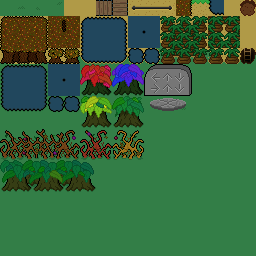
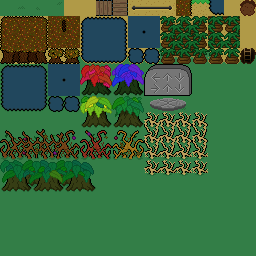
swamp maze

Changed region(s): [[0.5625, 0.4375, 0.8125, 0.6875]]

diff --git a/src/tool/editor/www/js/image/ImageService.js b/src/tool/editor/www/js/image/ImageService.js
@@ -42,7 +42,7 @@ ImageService.PRESETS = [{
   w: 4,
   h: 4,
   neighbors: [
-    0xa0, 0x1a, 0x12, 0x02,
+    0x0a, 0x1a, 0x12, 0x02,
     0x4a, 0x5a, 0x52, 0x42,
     0x48, 0x58, 0x50, 0x40,
     0x08, 0x18, 0x10, 0x00,

diff --git a/src/app/fmn_map_callbacks.c b/src/app/fmn_map_callbacks.c
@@ -2,6 +2,10 @@
 #include "app/sprite/fmn_sprite.h"
 #include "app/hero/fmn_hero.h"
 
+/* Pumpkin in the NW corner, find the topmost pushblock and kill it.
+ * This is no longer needed; we now take a more aggressive approach re pumpkin control.
+ */
+
 static int _find_top_pushblock(struct fmn_sprite *sprite,void *userdata) {
   struct fmn_sprite **found=userdata;
   if (sprite->controller!=FMN_SPRCTL_pushblock) return 0;
@@ -22,6 +26,65 @@ void fmn_map_callback_kill_top_pushblock_if_pumpkin_at_nw(uint8_t param,void *us
   fmn_sprite_kill(pushblock);
 }
 
+/* Generic, set a gsbit on map events.
+ */
+
 void fmn_map_callback_set_gsbit_00xx(uint8_t param,void *userdata) {
   fmn_gs_set_bit(0x0000|param,1);
+}
+
+/* Prepare the next step of the swamp maze.
+ * Start, end, and intermediate maps should all trigger this event alike.
+ */
+
+void fmn_map_callback_swamp_maze(uint8_t param,void *userdata) {
+  
+  // If the hero is near the north edge, eliminate the door stored in 3 bits of gs at (param).
+  float herox,heroy;
+  fmn_hero_get_position(&herox,&heroy);
+  if (heroy<1.0f) {
+    uint8_t doorp=fmn_gs_get_word(param,3);
+    if (doorp>=fmn_global.doorc) {
+    } else {
+      struct fmn_door *door=fmn_global.doorv+doorp;
+      door->mapid=0;
+      door->dstx=0x20; // event trigger
+      door->extra=0; // event zero, should be undefined
+    }
+  
+  // Hero not at the north edge, eliminate all doors.
+  // Swamp-maze maps are not allowed to have any other doors.
+  } else {
+    fmn_global.doorc=0;
+  }
+  
+  // Identify south exits.
+  float exitv[8]; // x
+  uint8_t exitc=0;
+  uint8_t x=0;
+  const uint8_t *mapp=fmn_global.map+(FMN_ROWC-1)*FMN_COLC;
+  while (x<FMN_COLC) {
+    if (fmn_global.cellphysics[*mapp]==FMN_CELLPHYSICS_VACANT) {
+      uint8_t c=1;
+      while ((x+c<FMN_COLC)&&(fmn_global.cellphysics[mapp[c]]==FMN_CELLPHYSICS_VACANT)) c++;
+      exitv[exitc++]=x+c*0.5f;
+      if (exitc>=sizeof(exitv)/sizeof(exitv[0])) break;
+      x+=c;
+      mapp+=c;
+    } else {
+      x++;
+      mapp++;
+    }
+  }
+  
+  // Pick a door randomly and store in 3 bits of gs at (param).
+  uint8_t choice=0;
+  if (exitc>0) choice=rand()%exitc;
+  fmn_gs_set_word(param,3,choice);
+  
+  // Record as compass target.
+  if (choice<exitc) {
+    fmn_global.compassx=exitv[choice];
+    fmn_global.compassy=FMN_ROWC;
+  }
 }

diff --git a/src/app/fmn_game.h b/src/app/fmn_game.h
@@ -121,10 +121,12 @@ void fmn_game_map_callback(uint16_t cbid,uint8_t param,void *userdata);
 
 #define FMN_MAP_CALLBACK_kill_top_pushblock_if_pumpkin_at_nw 1
 #define FMN_MAP_CALLBACK_set_gsbit_00xx 2
+#define FMN_MAP_CALLBACK_swamp_maze 3
 
 #define FMN_FOR_EACH_MAP_CALLBACK \
   _(kill_top_pushblock_if_pumpkin_at_nw) \
-  _(set_gsbit_00xx)
+  _(set_gsbit_00xx) \
+  _(swamp_maze)
   
 #define _(tag) void fmn_map_callback_##tag(uint8_t param,void *userdata);
 FMN_FOR_EACH_MAP_CALLBACK

diff --git a/src/app/hero/fmn_hero_item.c b/src/app/hero/fmn_hero_item.c
@@ -755,11 +755,10 @@ static void fmn_hero_feather_update() {
   if (target&&target->interact) target->interact(target,FMN_ITEM_FEATHER,0);
 }
 
-/* Compass: When "used", refresh the secret location.
+/* Compass: Everything useful is handled by render.
  */
  
 static void fmn_hero_compass_begin() {
-  fmn_secrets_refresh_for_map();
 }
 
 /* Dispatch on item type.

diff --git a/src/app/menu/fmn_menu_hello.c b/src/app/menu/fmn_menu_hello.c
@@ -35,6 +35,7 @@ static uint8_t hello_submit(struct fmn_menu *menu) {
         } else {
           fmn_dismiss_menu(menu);
           if (fmn_game_load_map(1,-1.0f,-1.0f)<0) fmn_abort();
+          fmn_map_callbacks(FMN_MAP_EVID_LOADED,fmn_game_map_callback,0);
         }
       } return 1;
     case 2: { // Settings

diff --git a/src/app/menu/fmn_menu_gameover.c b/src/app/menu/fmn_menu_gameover.c
@@ -14,6 +14,7 @@ static void gameover_dismiss(struct fmn_menu *menu) {
     fmn_dismiss_menu(menu);
     if (fmn_game_load_saved_game()<0) {
       if (fmn_game_load_map(1,-1.0f,-1.0f)<0) fmn_abort();
+      fmn_map_callbacks(FMN_MAP_EVID_LOADED,fmn_game_map_callback,0);
     }
   }
 }

diff --git a/src/app/fmn_game_global.c b/src/app/fmn_game_global.c
@@ -108,6 +108,7 @@ int fmn_game_load_saved_game() {
     return -1;
   }
   if (fmn_game_load_map(mapid,-1.0f,-1.0f)<0) return -1;
+  fmn_map_callbacks(FMN_MAP_EVID_LOADED,fmn_game_map_callback,0);
   return 0;
 }
 

diff --git a/README.md b/README.md
@@ -46,6 +46,8 @@ Tentatively aiming for full release 29 September 2023, the first full moon of au
 - [ ] desert: tiles for forest boundary
 - [ ] Church: join path at welcome mat.
 - [ ] Castle basement: Make the church attachment look like the church as a hint.
+- [ ] swamp: forest edge
+- [ ] Compass: make easier to read?
 
 ### Further critical features and bugs. Finish before 15 September.
 
